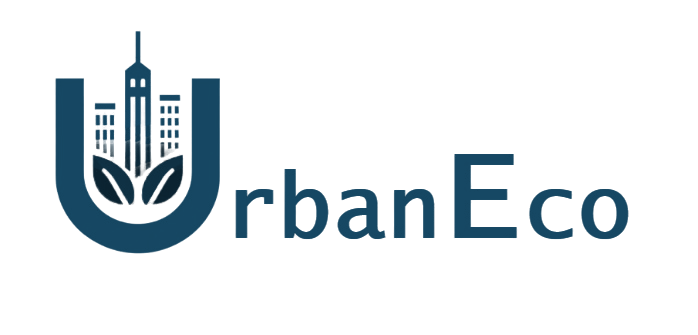
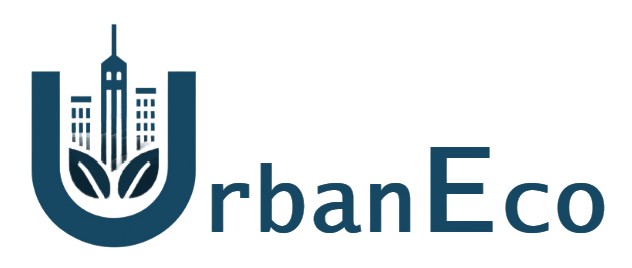
Dashboard UI Major changes - Individual reports colour scheme, background, header colour and proportions, hover effect on locationDropdown and notificationBell

Changed region(s): [[0.0301, 0.0896, 0.962, 0.9254]]

diff --git a/Dashboard/admin/app/page.tsx b/Dashboard/admin/app/page.tsx
@@ -10,13 +10,15 @@ import HeatMap from "./components/Homepage/MapRedirect/heatMap";
 import ViewReport from "./components/Homepage/viewReport";
 import IndividualReportDetails from "./components/Homepage/individualReportDetails";
 import ReportsOverview from "./components/Homepage/reportsOverview";
+import "./components/Homepage/header.css";
 
 const Dashboard = () => {
   return (
     <>
       <div className="bg-base-100 p-5">
         {/* HEADER */}
-        <header className="navbar bg-accent shadow-sm flex justify-between items-center rounded-md">
+        {/* <header className="navbar bg-accent shadow-sm flex justify-between items-center rounded-md"> */}
+        <header className="navbar bg-accent shadow-sm homepageHeader rounded-md">
           <UrbanEcoLogo />
           <SearchBox />
           <LocationDropdown />
@@ -49,13 +51,13 @@ const Dashboard = () => {
                 "Central Secretariat, Delhi-110069",
               ].map((location, index) => (
                 <div
-                  className={`card flex flex-row h-10 justify-between items-center p-1 mb-2 ${
-                    index % 2 === 0
-                      ? "bg-base-300"
-                      : "bg-base-100 border border-gray-400"
+                  className={`flex flex-row h-10 shadow-md shadow-gray-400 justify-between items-center p-1 mb-3 ${
+                    index % 2 === 0 ? "bg-base-300" : "bg-base-200"
                   }`}
                 >
-                  <span className="ml-2 font-sans font-medium">{location}</span>
+                  <span className="ml-2 font-sans font-medium text-sm">
+                    {location}
+                  </span>
 
                   {/* DETAILS REDIRECT */}
                   <IndividualReportDetails />

diff --git a/Dashboard/admin/app/components/Homepage/Header/locationDropdown.tsx b/Dashboard/admin/app/components/Homepage/Header/locationDropdown.tsx
@@ -4,10 +4,10 @@ import { faLocationDot } from "@fortawesome/free-solid-svg-icons";
 
 const LocationDropdown = () => {
   return (
-    <div className="flex-none gap-2 flex items-center">
+    <div className="flex-none gap-2 flex flex-row items-center">
       <div className="dropdown menu-dropdown ml-auto">
         <FontAwesomeIcon icon={faLocationDot} className="mr-1" />
-        <select className="select select-bordered font-semibold btn ml-2 flex-shrink-0 w-40">
+        <select className="select select-bordered border-gray-300 font-semibold btn ml-2 flex-shrink-0 w-40 hover:border-gray-500 hover:bg-base-100">
           <option className="font-semibold">Saket, Delhi</option>
           <option className="font-semibold">Live Location</option>
         </select>

diff --git a/Dashboard/admin/tailwind.config.ts b/Dashboard/admin/tailwind.config.ts
@@ -32,7 +32,7 @@ const config: Config = {
           "secondary-focus": "#cde2c1",
           "secondary-content": "#dfece0",
 
-          accent: "#ccd1cd",
+          accent: "#ededed",
           "accent-focus": "#bedaf4",
           "accent-content": "#ffffff",
 
@@ -40,9 +40,9 @@ const config: Config = {
           "neutral-focus": "#272525",
           "neutral-content": "#e9e7e7",
 
-          "base-100": "#e7eee7",
-          "base-200": "#b2d7b2",
-          "base-300": "#e4d795",
+          "base-100": "#fdfdfd",
+          "base-200": "#b9dfb9",
+          "base-300": "f7f2e8",
           "base-content": "#100f0f",
 
           info: "#1c92f2",

diff --git a/Dashboard/admin/app/components/Homepage/Header/searchBox.tsx b/Dashboard/admin/app/components/Homepage/Header/searchBox.tsx
@@ -4,8 +4,8 @@ import { faSearch } from "@fortawesome/free-solid-svg-icons";
 
 const SearchBox = () => {
   return (
-    <div className="flex-grow flex items-center mx-4 pr-4">
-      <div className="w-full form-control flex flex-row relative">
+    <div className="flex-grow flex items-center mx-4 border-gray-300">
+      <div className="form-control flex flex-grow relative">
         <input
           type="text"
           placeholder="Search"

diff --git a/Dashboard/admin/app/components/Homepage/Header/notificationIcon.tsx b/Dashboard/admin/app/components/Homepage/Header/notificationIcon.tsx
@@ -4,8 +4,8 @@ import { faBell } from "@fortawesome/free-solid-svg-icons";
 
 const NotificationIcon = () => {
   return (
-    <div className="ml-2 mr-1">
-      <button className="btn btn-circle bg-base-100">
+    <div className="ml-3">
+      <button className="btn btn-circle bg-base-100 border-gray-300 hover:border-gray-500 hover:bg-base-100">
         <FontAwesomeIcon icon={faBell} className="text-xl" />
       </button>
     </div>

diff --git a/Dashboard/admin/app/components/urbanEcoLogo.tsx b/Dashboard/admin/app/components/urbanEcoLogo.tsx
@@ -5,7 +5,7 @@ import Link from "next/link";
 const UrbanEcoLogo = () => {
   return (
     <Link href="/" passHref>
-      <div className="logoContainer btn btn-ghost ml-2">
+      <div className="logoContainer btn btn-ghost ml-4 w-fit pb-1">
         <img src="/images/urbanEco.png" alt="UrbanEco" className="logoImage" />
       </div>
     </Link>

diff --git a/Dashboard/admin/app/components/Homepage/individualReportDetails.tsx b/Dashboard/admin/app/components/Homepage/individualReportDetails.tsx
@@ -9,7 +9,7 @@ import {
 const IndividualReportDetails = () => {
   return (
     <div>
-      <FontAwesomeIcon icon={faLocationDot} color="#A61F1F" />
+      <FontAwesomeIcon icon={faLocationDot} color="#62280B" />
       <Link
         href="/"
         className="mx-2 px-2 text-xs font-semibold hover:underline justify-center"

diff --git a/Dashboard/admin/app/components/Homepage/header.css b/Dashboard/admin/app/components/Homepage/header.css
@@ -1,0 +1,4 @@
+.homepageHeader {
+  display: grid;
+  grid-template-columns: 2fr 8fr 4fr 1fr;
+}
